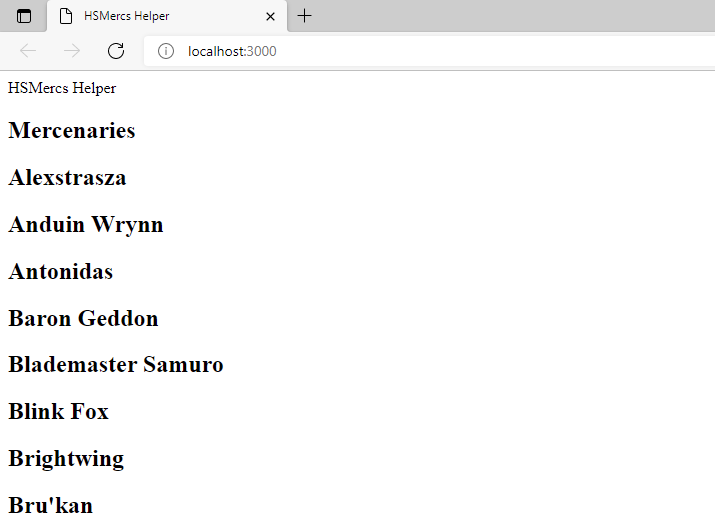
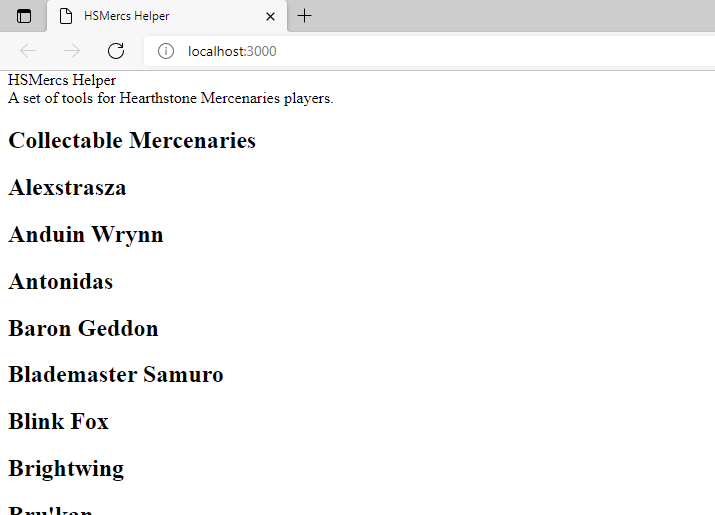
Minor updates to match changes made in the future!

diff --git a/posts/2022/2022-02-03-first-rudimentary-mercenary-components.md b/posts/2022/2022-02-03-first-rudimentary-mercenary-components.md
@@ -150,7 +150,10 @@ This is another one of those Tooling Updates that occassionally needs to be adde
   </script>
   
   <template>
-    <div>HSMercs Helper</div>
+    <header>
+      <div>HSMercs Helper</div>
+      <div>A set of tools for Hearthstone Mercenaries players.</div>
+    </header>
 +   <Mercenaries></Mercenaries>
   </template>
 ```
@@ -160,13 +163,9 @@ Now that the `Mercenaries` component has been built, the `App` component needs t
 #### src/components/MercenaryCard.vue
 ```vue
 <template>
-  <div>
-    <div>
-      <h2>
-        <slot />
-      </h2>
-    </div>
-  </div>
+  <h2>
+    <slot />
+  </h2>
 </template>
 <script lang="ts">
 import { defineComponent } from "vue";
